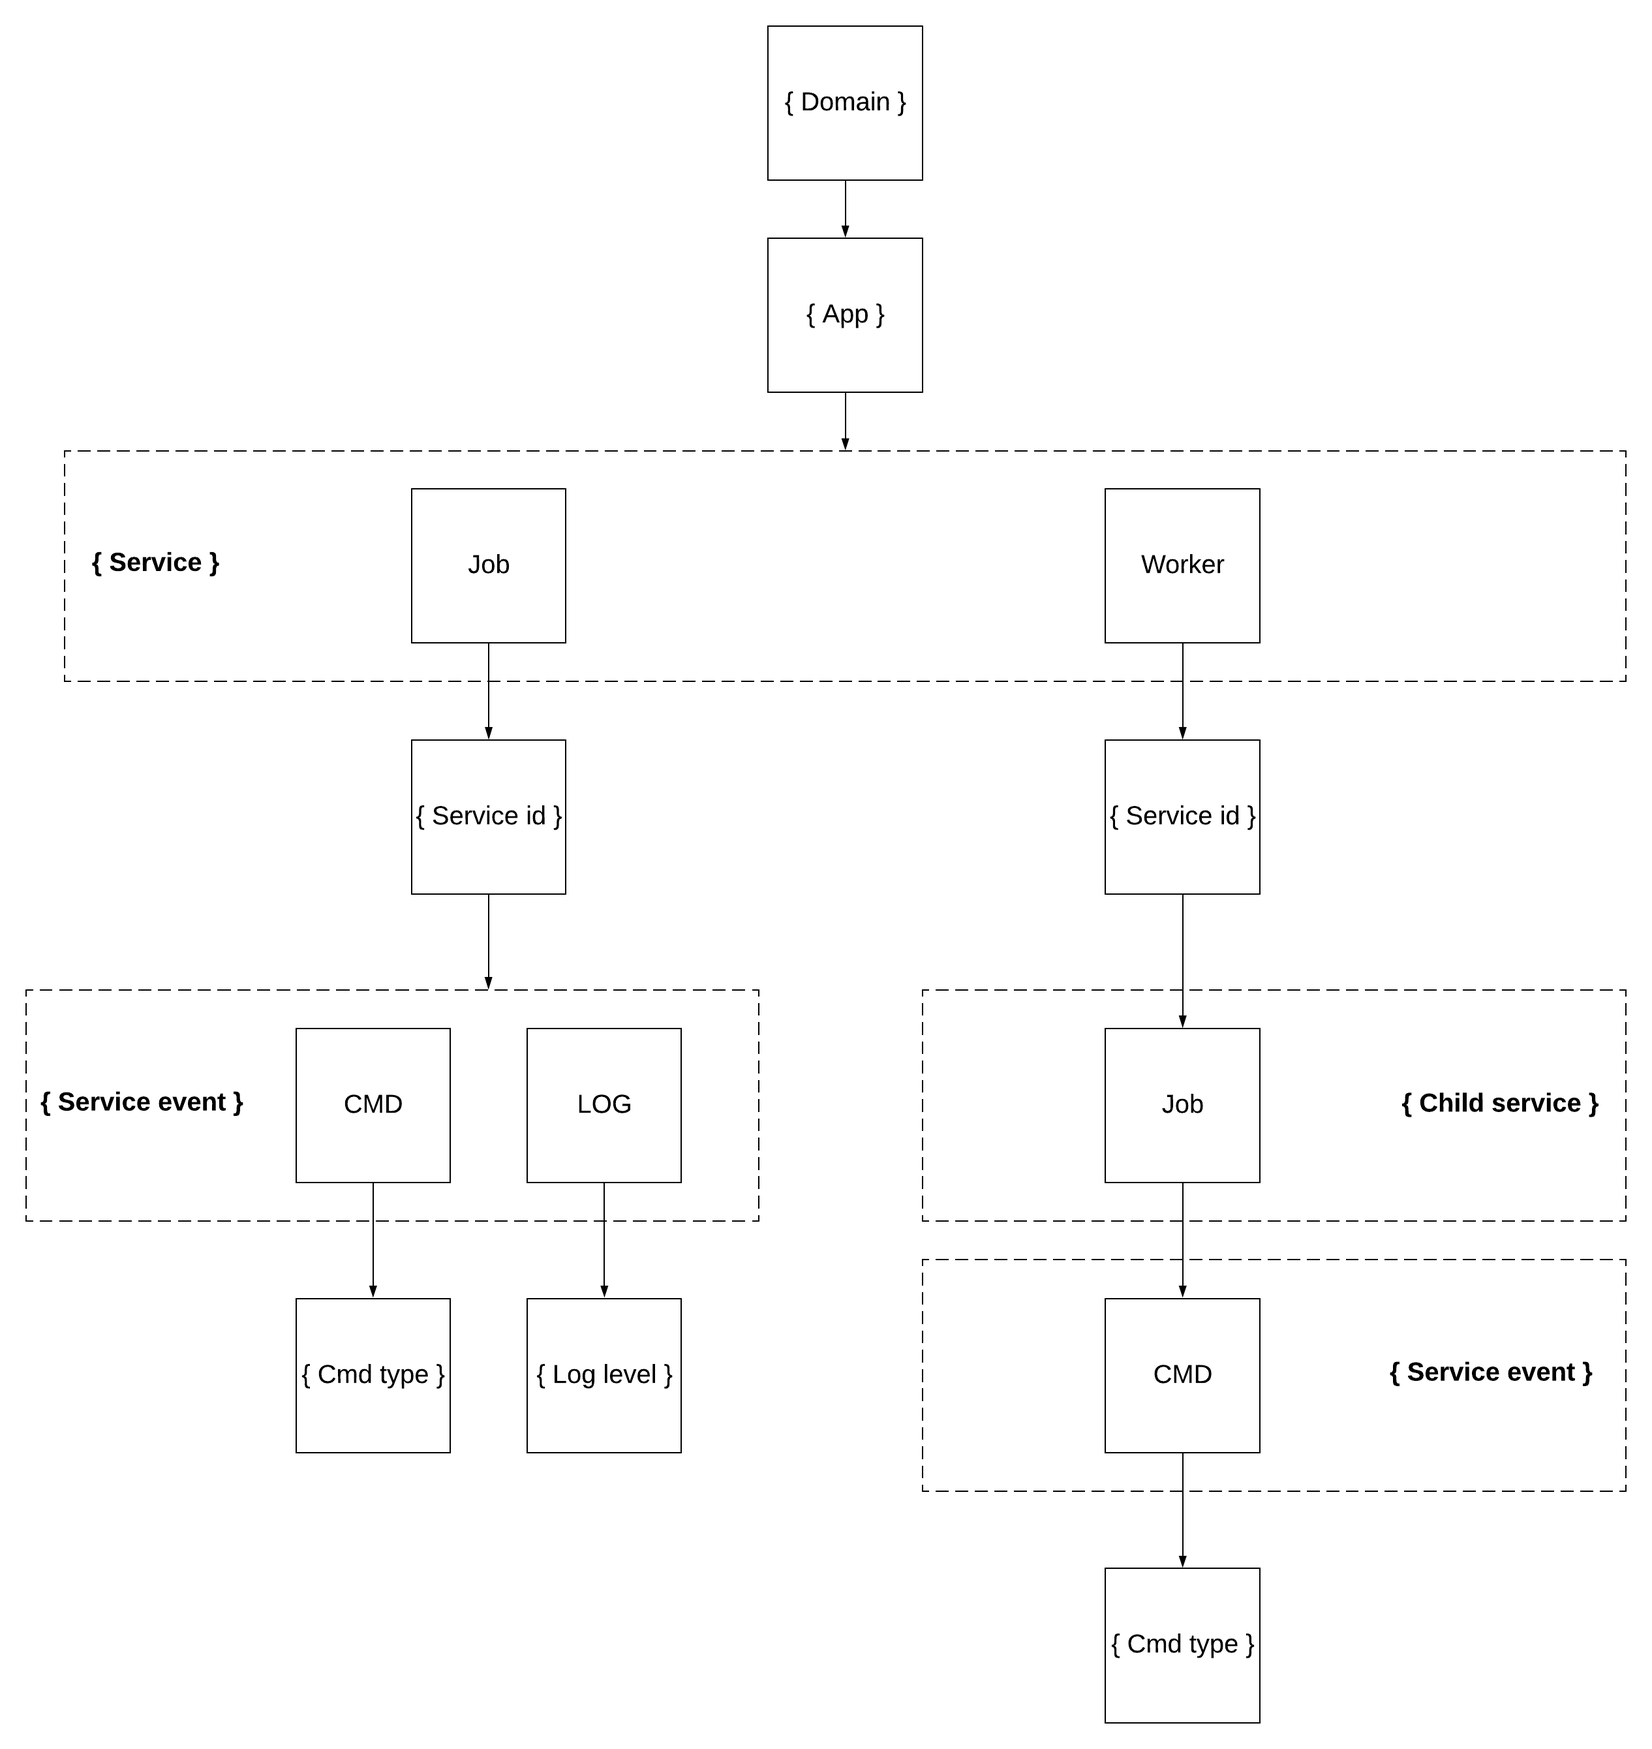
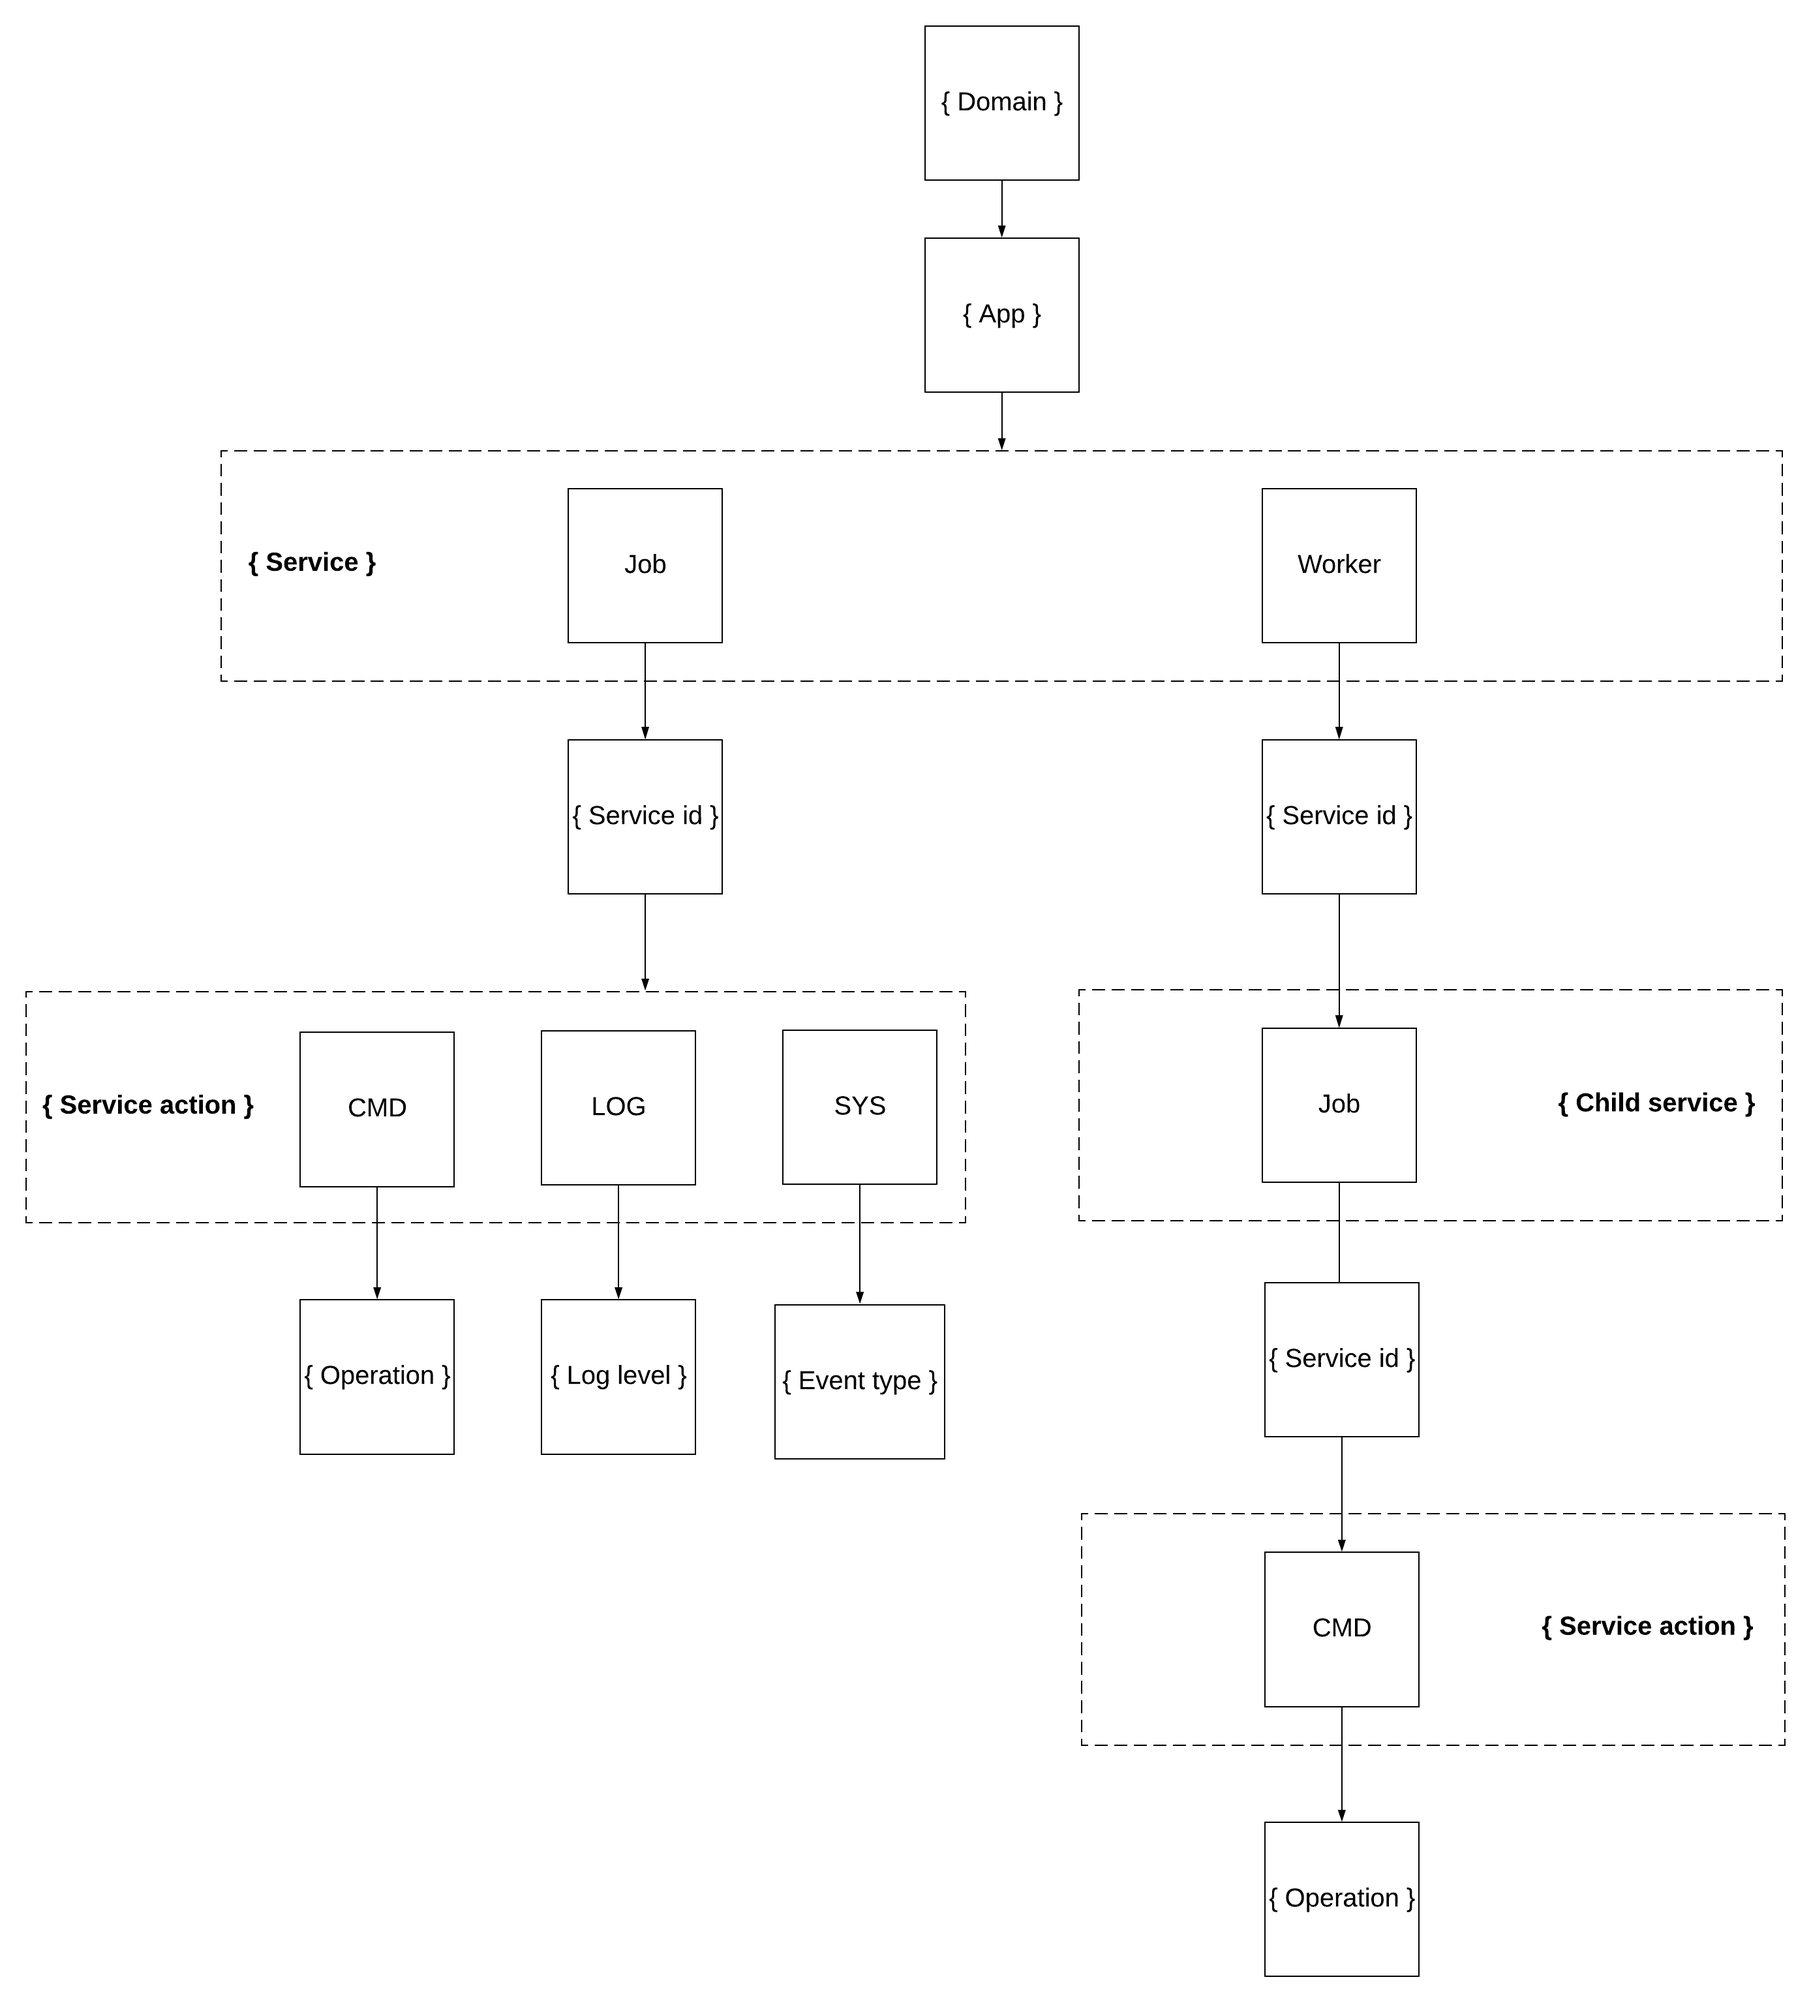
Refactor: events, event-handlers, mqtt-client, topic structures.  Modify: README.

diff --git a/agent/src/event-handlers.js b/agent/src/event-handlers.js
@@ -6,43 +6,47 @@
 import shelljs from "shelljs";
 import Process from "./process";
 import {
-  ExecuteJobEvent,
-  InterruptJobEvent,
-  JobInfoEvent,
-  JobErrorEvent,
-  JobExitEvent,
-  JobStartEvent
+  JobCmdExecuteEvent,
+  JobCmdInterruptEvent,
+  JobLogEvent,
+  JobSysEvent
 } from "./events";
 
-// TODO: potentially wrap this in a promise
-const handleExecuteJobEvent = (agent, mqttClient) => event => {
+const handleExecuteJobEvent = (agent, mqttClient) => async event => {
+  // parse event
+  let eventObj = JSON.parse(event.toString());
+
   // guard: prevent agent from executing duplicate jobs
-  if (agent.getProcesses()[event.jobId]) {
+  if (agent.getProcesses()[eventObj.jobId]) {
     return false;
   }
   // guard: attempt to parse event, fail if message is malformed
   let executeJobEvent;
   try {
-    executeJobEvent = ExecuteJobEvent(JSON.parse(event.toString()));
+    executeJobEvent = JobCmdExecuteEvent(eventObj);
   } catch (err) {
+    console.error(
+      "Message received by handleExecuteJobEvent was malformed, unable to process."
+    );
     return false;
   }
-
-  // initialize topic prefix to env variable
-  let topicPrefix = process.env.SOLACE_TOPIC_PREFIX;
 
   // start process
   let processRef = shelljs.exec(executeJobEvent.commandString, { async: true });
 
-  // pipe process outputs to Solace
+  // pipe process outputs to Solace broker
   processRef.stdout.on("data", async data => {
-    // form payload for message
-    let payload = JobInfoEvent({ jobId: executeJobEvent.jobId, data });
+    // stdout gets piped to Solace as an info level log event
+    let payload = JobLogEvent({
+      jobId: executeJobEvent.jobId,
+      level: "INFO",
+      data: data,
+      timestamp: Date.now()
+    });
     payload = JSON.stringify(payload);
-    // stdout: publish on Info/Job/<JobID>
     try {
       let res = await mqttClient.send(
-        `${topicPrefix}/Info/Job/${executeJobEvent.jobId}`,
+        `Job/${executeJobEvent.jobId}/LOG/INFO`,
         payload,
         1 // qos
       );
@@ -53,13 +57,17 @@ const handleExecuteJobEvent = (agent, mqttClient) => event => {
   });
 
   processRef.stderr.on("data", async data => {
-    // form payload for message
-    let payload = JobErrorEvent({ jobId: executeJobEvent.jobId, data });
+    // stderr gets piped to Solace as an error level log event
+    let payload = JobLogEvent({
+      jobId: executeJobEvent.jobId,
+      level: "ERROR",
+      data: data,
+      timestamp: Date.now()
+    });
     payload = JSON.stringify(payload);
-    // stderr: publish on Error/Job/<JobID>
     try {
       let res = await mqttClient.send(
-        `${topicPrefix}/Error/Job/${executeJobEvent.jobId}`,
+        `Job/${executeJobEvent.jobId}/LOG/ERROR`,
         payload,
         1 // qos
       );
@@ -70,13 +78,18 @@ const handleExecuteJobEvent = (agent, mqttClient) => event => {
   });
 
   processRef.on("exit", async function(code, signal) {
-    // form payload for message
-    let payload = JobExitEvent({ jobId: executeJobEvent.jobId, code, signal });
+    // exit gets piped to Solace as a sys event
+    let data = { code, signal };
+    let payload = JobSysEvent({
+      jobId: executeJobEvent.jobId,
+      type: "EXITED",
+      data: data,
+      timestamp: Date.now()
+    });
     payload = JSON.stringify(payload);
-    // exit: publish on Exit/Job/<JobID>
     try {
       let res = await mqttClient.send(
-        `${topicPrefix}/Exit/Job/${executeJobEvent.jobId}`,
+        `Job/${executeJobEvent.jobId}/SYS/EXITED`,
         payload,
         1 // qos
       );
@@ -92,12 +105,18 @@ const handleExecuteJobEvent = (agent, mqttClient) => event => {
   // add process to agent so that it can keep track of active processes
   agent.addProcess(process);
 
-  // publish job running event now that its process is running
-  let payload = JobStartEvent({ jobId: executeJobEvent.jobId });
+  // publish a SYS event to indicate the process is running
+  let data = null;
+  let payload = JobSysEvent({
+    jobId: executeJobEvent.jobId,
+    type: "STARTED",
+    data: data,
+    timestamp: Date.now()
+  });
   payload = JSON.stringify(payload);
   try {
     let res = await mqttClient.send(
-      `${topicPrefix}/Running/Job/${executeJobEvent.jobId}`,
+      `Job/${executeJobEvent.jobId}/SYS/STARTED`,
       payload,
       1 // qos
     );
@@ -106,17 +125,35 @@ const handleExecuteJobEvent = (agent, mqttClient) => event => {
     return false;
   }
 
-  mqttClient.send("", JSON.stringify({ abc: 123, def: "test" }), 1);
-
   return true;
 };
 
-const handleInterruptJobEvent = (agent, publisher) => event => {
-  // guard: prevent agent from trying to stop a job that doesn't exist
-  if (!agent.getProcesses()[event.jobId]) {
+const handleInterruptJobEvent = agent => async event => {
+  // parse event
+  let eventObj = JSON.parse(event.toString());
+
+  // guard: prevent agent from executing duplicate jobs
+  if (agent.getProcesses()[eventObj.jobId]) {
     return false;
   }
-  return agent.interruptJob(event.jobId);
+  // guard: validate event structure, fail if event is malformed
+  let interruptJobEvent;
+  try {
+    interruptJobEvent = JobCmdInterruptEvent(eventObj);
+  } catch (err) {
+    console.error(
+      "Message received by handleInterruptJobEvent was malformed, unable to process."
+    );
+    return false;
+  }
+
+  // kill process, which will trigger a SYS/EXITED event
+  agent.interruptProcess(interruptJobEvent.jobId);
+
+  // remove process from agent
+  agent.removeProcess(interruptJobEvent.jobId);
+
+  return true;
 };
 
 export { handleExecuteJobEvent, handleInterruptJobEvent };

diff --git a/agent/src/mqtt-client.js b/agent/src/mqtt-client.js
@@ -10,6 +10,9 @@ function MqttClient({ hostUrl, username, password }) {
   let client = null;
   let eventHandlers = produce({}, draft => {});
 
+  // initialize topic prefix to env variable
+  let topicPrefix = process.env.SOLACE_TOPIC_PREFIX;
+
   // connects client to message broker and ensures connack is received
   async function connect() {
     return new Promise((resolve, reject) => {
@@ -48,10 +51,13 @@ function MqttClient({ hostUrl, username, password }) {
       }
       // add event handler
       eventHandlers = produce(eventHandlers, draft => {
-        draft[topic] = handler;
+        draft[`${topicPrefix}/${topic}`] = handler;
       });
       // subscribe to topic on client
-      client.subscribe(topic, { qos }, function onSubAck(err, granted) {
+      client.subscribe(`${topicPrefix}/${topic}`, { qos }, function onSubAck(
+        err,
+        granted
+      ) {
         // guard: err != null indicates a subscription error or an error that occurs when client is disconnecting
         if (err) reject(err);
         // else, subscription is verified
@@ -76,10 +82,12 @@ function MqttClient({ hostUrl, username, password }) {
       }
       // remove event handler
       eventHandlers = produce(eventHandlers, draft => {
-        delete draft[topic];
+        delete draft[`${topicPrefix}/${topic}`];
       });
       // unsubscribe from topic on client
-      client.unsubscribe(topic, null, function onUnsubAck(err) {
+      client.unsubscribe(`${topicPrefix}/${topic}`, null, function onUnsubAck(
+        err
+      ) {
         // guard: err != null indicates an error occurs if client is disconnecting
         if (err) reject(err);
         // else, unsubscription verified
@@ -97,11 +105,16 @@ function MqttClient({ hostUrl, username, password }) {
         reject("Client has not connected yet");
       }
 
-      client.publish(topic, message, { qos }, function onPubAck(err) {
-        // guard: err != null indicates client is disconnecting
-        if (err) reject(err);
-        resolve();
-      });
+      client.publish(
+        `${topicPrefix}/${topic}`,
+        message,
+        { qos }, // options
+        function onPubAck(err) {
+          // guard: err != null indicates client is disconnecting
+          if (err) reject(err);
+          resolve();
+        }
+      );
     });
   }
 

diff --git a/agent/src/index.js b/agent/src/index.js
@@ -23,16 +23,13 @@ import {
 async function run() {
   let agent = Agent();
 
-  // initialize topic prefix and worker node id to env variables
-  let topicPrefix = process.env.SOLACE_TOPIC_PREFIX;
-  let workerNodeId = process.env.WORKER_NODE_ID;
-
-  // initialize mqtt client config properties to env variables
+  // initialize mqtt client config properties and workerId to env variables
   let mqttClientConfig = {
     hostUrl: process.env.SOLACE_MQTT_HOST_URL,
     username: process.env.SOLACE_USERNAME,
     password: process.env.SOLACE_PASSWORD
   };
+  let workerId = process.env.WORKER_ID;
 
   // initialize and connect mqtt client
   let mqttClient;
@@ -43,19 +40,19 @@ async function run() {
     console.error(err);
   }
 
-  // use partial application to include agent and publisher in event handlers' scopes
+  // use partial application to include agent and/or publisher in event handlers' scopes
   let executeJobEventHandler = handleExecuteJobEvent(agent, mqttClient);
-  let interruptJobEventHandler = handleInterruptJobEvent(agent, mqttClient);
+  let interruptJobEventHandler = handleInterruptJobEvent(agent);
 
   // add event handlers to mqtt client
   try {
     await mqttClient.addEventHandler(
-      `${topicPrefix}/Execute/${workerNodeId}`,
+      `Worker/${workerNodeId}/Job/*/CMD/Execute`,
       event => executeJobEventHandler(event),
       1 // qos
     );
     await mqttClient.addEventHandler(
-      `${topicPrefix}/Interrupt/${workerNodeId}`,
+      `Worker/${workerNodeId}/Job/*/CMD/Interrupt`,
       event => interruptJobEventHandler(event),
       1 // qos
     );

diff --git a/agent/src/events.js b/agent/src/events.js
@@ -1,56 +1,41 @@
 /**
- * index.js
+ * events.js
  * @author Andrew Roberts
  */
 
 import produce from "immer";
 
-function ExecuteJobEvent({ jobId, commandString }) {
+function JobCmdExecuteEvent({ jobId, commandString, timestamp }) {
   return produce({}, draft => {
     draft.jobId = jobId;
     draft.commandString = commandString;
+    draft.timestamp = timestamp;
   });
 }
 
-function InterruptJobEvent({ jobId }) {
+function JobCmdInterruptEvent({ jobId, timestamp }) {
   return produce({}, draft => {
     draft.jobId = jobId;
+    draft.timestamp = timestamp;
   });
 }
 
-function JobInfoEvent({ jobId, data }) {
+function JobLogEvent({ jobId, level, data, timestamp }) {
   return produce({}, draft => {
     draft.jobId = jobId;
+    draft.level = level;
     draft.data = data;
+    draft.timestamp = timestamp;
   });
 }
 
-function JobErrorEvent({ jobId, data }) {
+function JobSysEvent({ jobId, type, data, timestamp }) {
   return produce({}, draft => {
     draft.jobId = jobId;
+    draft.type = type;
     draft.data = data;
+    draft.timestamp = timestamp;
   });
 }
 
-function JobExitEvent({ jobId, code, signal }) {
-  return produce({}, draft => {
-    draft.jobId = jobId;
-    draft.code = code;
-    draft.signal = signal;
-  });
-}
-
-function JobStartEvent({ jobId }) {
-  return produce({}, draft => {
-    draft.jobId = jobId;
-  });
-}
-
-export {
-  ExecuteJobEvent,
-  InterruptJobEvent,
-  JobInfoEvent,
-  JobErrorEvent,
-  JobExitEvent,
-  JobStartEvent
-};
+export { JobCmdExecuteEvent, JobCmdInterruptEvent, JobLogEvent, JobSysEvent };
